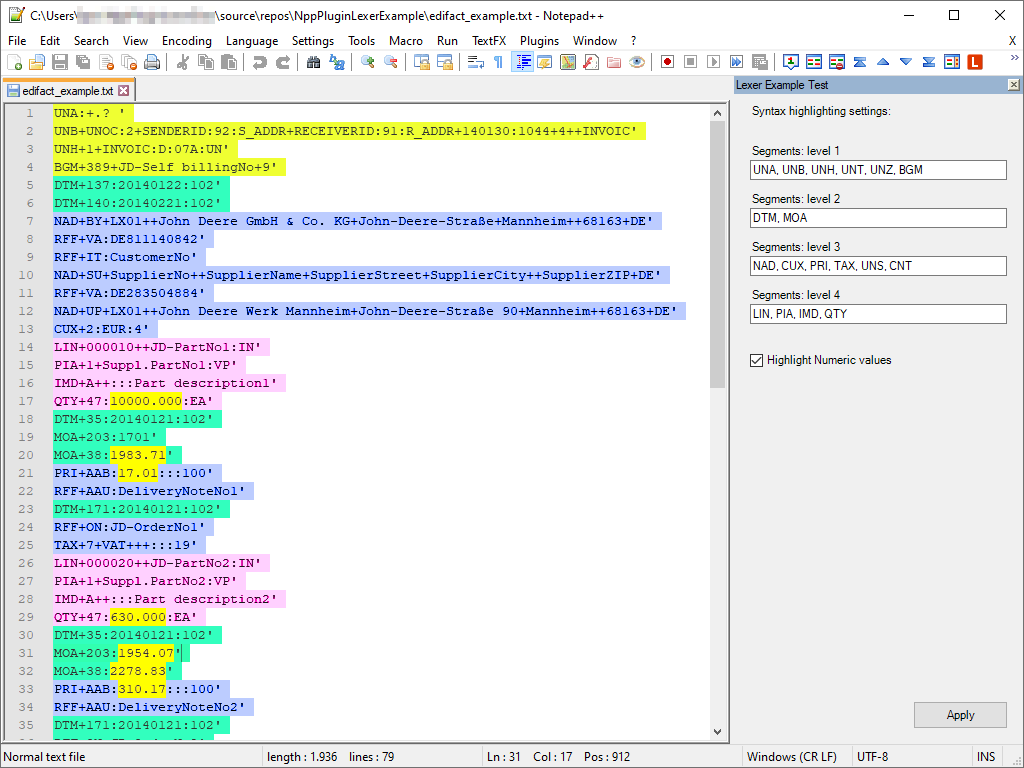
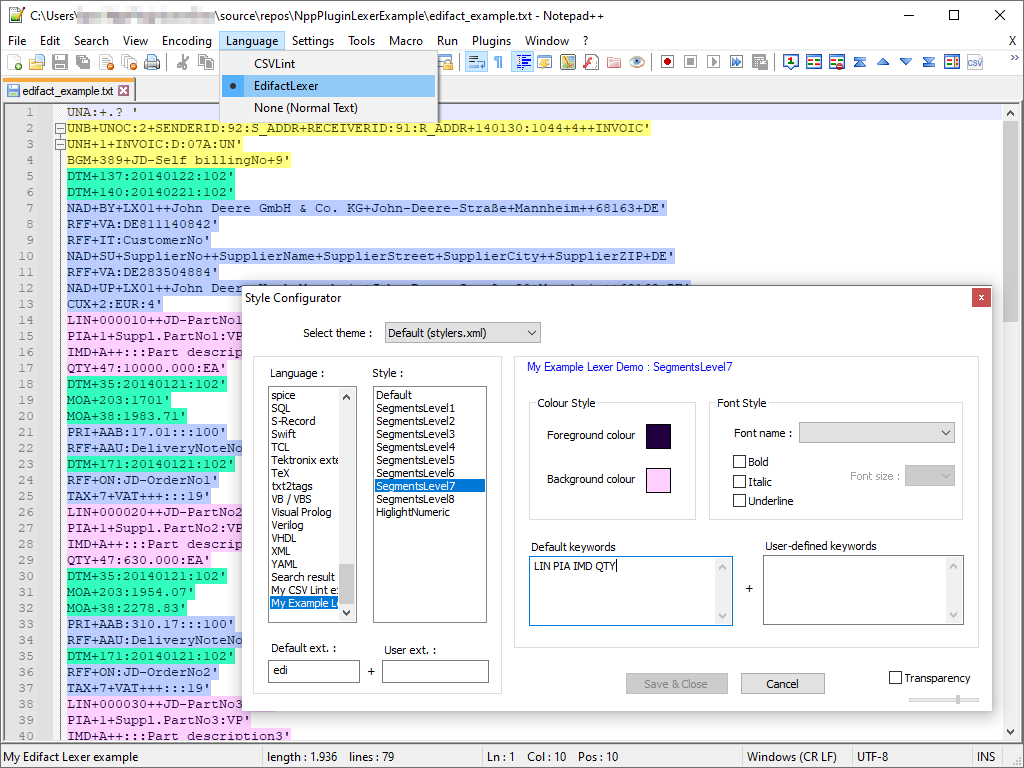
Update readme, screenshot
Update readme, screenshot and .csproj file was missing

diff --git a/README.md b/README.md
@@ -1,18 +1,19 @@
 Lexer example C# - Notepad++ plugin
 ===================================
 
-This is an example of a Lexer, it is meant to explore how to setup a C# project with a custom lexer code.
-The syntax highlighting is based on user configuration in a window which can change at run-time.
-It should apply highlighting to EDIFACT data files.
+This is an example of a Lexer, it is meant to explore how to setup a C# project with custom lexer code.
+It applies highlighting to EDIFACT data files. The syntax highlighting colors and keywords are based on user configuration in the [EdifactLexer.xml](/config/EdifactLexer.xml) file.
 This is just an example code project, it's not meant to be a full EDIFACT editor.
+
+[EdifactLexer.xml](/config/EdifactLexer.xml)
 
 Lexer datafiles
 ---------------
 The lexer example is slightly different compared to a Lexer for a programming or scripting files.
 But the code project can technically be used to create any lexer in C#.
 
-For data files, the highlighting rules can change depending on user input, and depending on the data files.
-For example the segment names, separator character, etc. can differ, and the user can change these though a configuration window.
+For data files, the highlighting rules can be the same for all data files, like segment names in Edifact which can be set as keywords in [Settings > Style configurator](/config/EdifactLexer.xml).
+For other data files like character separated data, the separator character can be differ per file and the user has to somehow set it at run-time.
 
 Goal
 ----
@@ -21,9 +22,9 @@ The goal is to create a Lexer plugin project, as a starting point or template fo
 It is meant for finding out how to set it up and apply it [my other plugin](https://github.com/BdR76/CSVLint).
 Also see this [forum post](https://community.notepad-plus-plus.org/topic/21124/c-adding-a-custom-styler-or-lexer-in-c-for-scintilla-notepad/6)
 
-See mockup below, the plug-in doesn't work like this yet, it is a goal mock-up screenshot
+See screenshot below, the plugin works and this is what the current plug-in project can do
 
-![preview screenshot](/mockup_preview.png?raw=true "Lexer plug-in example, goal preview")
+![preview screenshot](/mockup_preview.png?raw=true "Lexer plug-in example, preview")
 
 How to install
 --------------
@@ -46,6 +47,7 @@ with help from members of the [Notepad++ development community](https://communit
 
 History
 -------
+21-may-2021 - additional code
 08-may-2021 - first test release
 
 BdR©2021 Free to use - send questions or comments: Bas de Reuver - bdr1976@gmail.com
